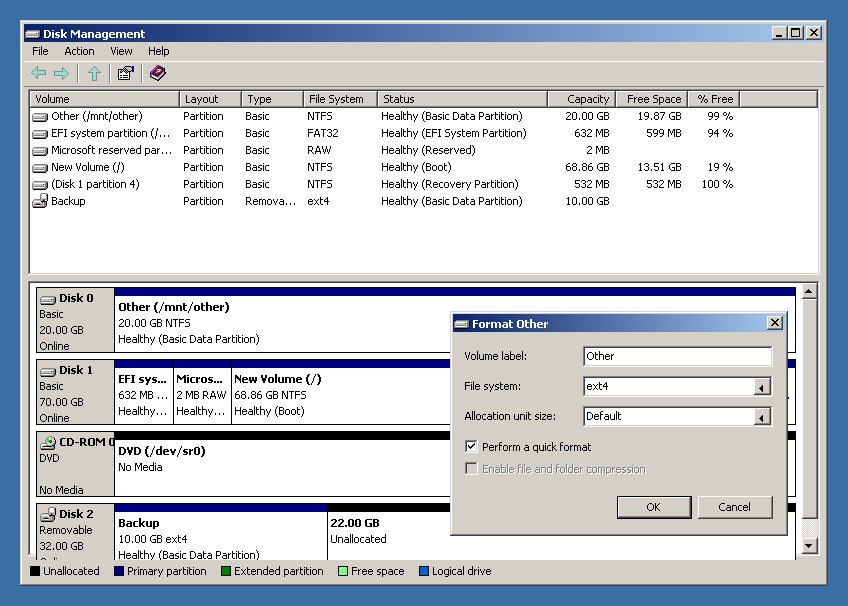
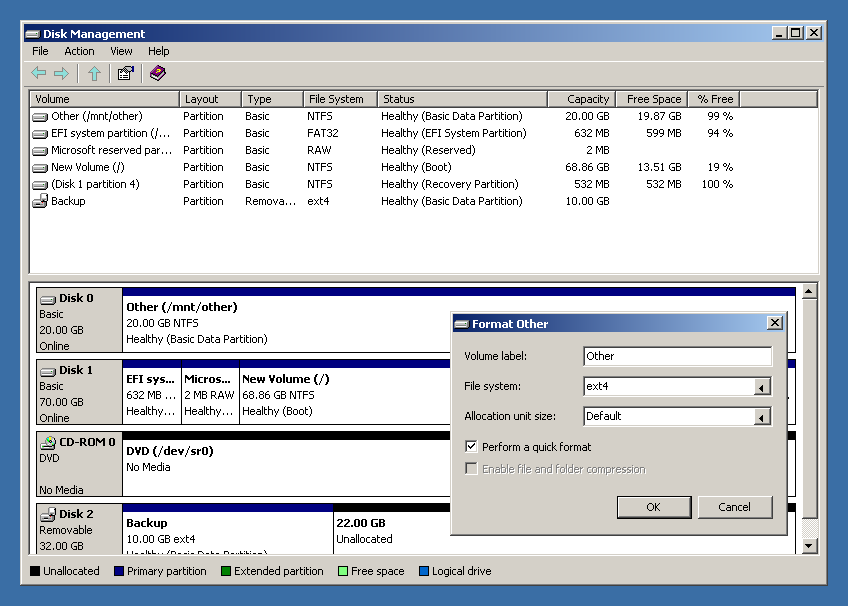
Disk Management: label text fits its box, and the disk view clips to its pane
CD-ROM rows overran the label box in bold, and rows scrolled half out
of view drew past the edge; every label line is now cut to fit and the
view is painted through a pixmap the size of the pane.

Changed region(s): [[0.1226, 0.4752, 0.9505, 0.9505]]

diff --git a/apps/l2kdiskmgmt.c b/apps/l2kdiskmgmt.c
@@ -556,7 +556,7 @@ enum { ID_EXIT = 100, ID_REFRESH, ID_RESCAN, ID_HELP, ID_ABOUT, ID_SETTINGS,
 enum { PANE_VOLUMES, PANE_DISKS, PANE_GRAPH, PANE_NONE };
 
 #define DISK_ROW_H   72
-#define DISK_LABEL_W 78
+#define DISK_LABEL_W 86
 #define LEGEND_H     22
 #define STRIPE_H      8
 
@@ -708,35 +708,52 @@ static void hatch(Drawable d, int x, int y, int w, int h)
     }
 }
 
-static void draw_graph(Drawable d)
+/* A line of the label box or a region, cut to fit. */
+static void fit_text(Drawable d, int font, int x, int y, int maxw, const char *text)
+{
+    char t[160];
+    if (maxw <= 4) return;
+    w2k_ellipsis(font, text, maxw, t, sizeof t);
+    w2k_text(d, font, x, y, t, C_TEXT);
+}
+
+/* The rows are drawn on a pixmap the size of the pane's inside and
+ * copied over, so a row scrolled half out of view stops at the edge. */
+static void draw_graph(Drawable dst)
 {
     W2kRect g = app.bottom;
-    w2k_fill(d, g.x, g.y, g.w, g.h, C_WINDOW);
-    w2k_edge(d, g.x, g.y, g.w, g.h, EDGE_SUNKEN, BF_RECT);
+    w2k_fill(dst, g.x, g.y, g.w, g.h, C_WINDOW);
+    w2k_edge(dst, g.x, g.y, g.w, g.h, EDGE_SUNKEN, BF_RECT);
     int inner_x = g.x + 2, inner_y = g.y + 2, inner_w = g.w - 4, inner_h = g.h - 4;
     int need = w2k_scroll_needed(&app.gsb);
     if (need) inner_w -= SCROLL_W;
+    if (inner_w <= 0 || inner_h <= 0) return;
+    int pw = w2k_cw(inner_x, inner_w), ph = w2k_cw(inner_y, inner_h);
+    Pixmap d = XCreatePixmap(w2k.dpy, w2k.root, (unsigned)pw, (unsigned)ph, w2k.depth);
+    w2k_fill(d, 0, 0, inner_w, inner_h, C_WINDOW);
     int fh = w2k_font_height(F_UI);
-    int y = inner_y + 4 - app.gsb.pos;
-    int gx = inner_x + 6 + DISK_LABEL_W, gw = inner_w - 12 - DISK_LABEL_W;
+    int y = 4 - app.gsb.pos;
+    int lx = 6;
+    int gx = lx + DISK_LABEL_W, gw = inner_w - 12 - DISK_LABEL_W;
     if (gw < 40) gw = 40;
     layout_regions(gw - 2);
     for (int i = 0; i < ndisks; i++, y += DISK_ROW_H) {
         Disk *dk = &disks[i];
         int rh = DISK_ROW_H - 6;
-        if (y + rh < inner_y || y > inner_y + inner_h) continue;
+        if (y + rh < 0 || y > inner_h) continue;
         /* The disk's label box, grey in a black line. */
-        int lx = inner_x + 6;
         w2k_fill(d, lx, y, DISK_LABEL_W, rh, C_FACE);
         w2k_frame(d, lx, y, DISK_LABEL_W + gw, rh, C_BLACK);
         if (app.sel_disk == i && app.graph_focus) hatch(d, lx + 1, y + 1, DISK_LABEL_W - 1, rh - 2);
         char b[64];
+        int tw = DISK_LABEL_W - 8;
         w2k_icon_draw(d, lx + 4, y + 4, dk->rom ? ICO_DRIVE_CD : dk->rm ? ICO_DRIVE_FLOPPY : ICO_DRIVE_HDD);
         snprintf(b, sizeof b, dk->rom ? "CD-ROM %d" : "Disk %d", dk->index);
-        w2k_text(d, F_UI_BOLD, lx + 24, y + 4, b, C_TEXT);
-        w2k_text(d, F_UI, lx + 4, y + 4 + fh + 2, dk->rom ? "DVD" : dk->rm ? "Removable" : "Basic", C_TEXT);
-        if (dk->size) w2k_text(d, F_UI, lx + 4, y + 4 + 2 * (fh + 2), fmt_size(dk->size, b, sizeof b), C_TEXT);
-        w2k_text(d, F_UI, lx + 4, y + 4 + 3 * (fh + 2), dk->rom && !dk->size ? "No Media" : dk->ro ? "Read-only" : "Online", C_TEXT);
+        fit_text(d, F_UI_BOLD, lx + 24, y + 4, DISK_LABEL_W - 28, b);
+        fit_text(d, F_UI, lx + 4, y + 4 + fh + 2, tw, dk->rom ? "DVD" : dk->rm ? "Removable" : "Basic");
+        if (dk->size) fit_text(d, F_UI, lx + 4, y + 4 + 2 * (fh + 2), tw, fmt_size(dk->size, b, sizeof b));
+        fit_text(d, F_UI, lx + 4, y + 4 + 3 * (fh + 2), tw,
+                 dk->rom && !dk->size ? "No Media" : dk->ro ? "Read-only" : "Online");
         w2k_vline(d, lx + DISK_LABEL_W, y, rh, C_BLACK);
         /* The regions. */
         for (int r = 0; r < nregions; r++) {
@@ -745,10 +762,7 @@ static void draw_graph(Drawable d)
             int rx = gx + 1 + rg->x, rw = rg->w, ry = y + 1, rhh = rh - 2;
             int kind = region_kind(rg);
             w2k_fill(d, rx, ry, rw, rhh, C_WINDOW);
-            /* The extended container is a green line around its drives. */
-            if (kind == LG_EXTENDED) {
-                w2k_fill_rgb(d, rx, ry, rw, rhh, 240, 255, 240);
-            }
+            if (kind == LG_EXTENDED) w2k_fill_rgb(d, rx, ry, rw, rhh, 240, 255, 240);
             const unsigned char *c = legend_rgb[kind];
             w2k_fill_rgb(d, rx, ry, rw, STRIPE_H, c[0], c[1], c[2]);
             if (rg->inext) {
@@ -777,25 +791,21 @@ static void draw_graph(Drawable d)
                 Part *p = &dk->part[rg->part];
                 char nm[80];
                 part_volname(dk, i, p, nm, sizeof nm);
-                if (p->extended) { snprintf(nm, sizeof nm, "Extended partition"); }
+                if (p->extended) snprintf(nm, sizeof nm, "Extended partition");
                 snprintf(l1, sizeof l1, "%s%s%s%s", nm, p->mount[0] ? " (" : "",
                          p->mount[0] ? p->mount : "", p->mount[0] ? ")" : "");
                 snprintf(l2, sizeof l2, "%s %s", fmt_size(p->size, b, sizeof b),
                          p->extended ? "" : fs_name(p->fstype));
                 part_status(p, l3, sizeof l3);
             }
-            char t[128];
-            w2k_ellipsis(F_UI_BOLD, l1, rw - 8, t, sizeof t);
-            w2k_text(d, F_UI_BOLD, rx + 4, ty, t, C_TEXT);
-            w2k_ellipsis(F_UI, l2, rw - 8, t, sizeof t);
-            w2k_text(d, F_UI, rx + 4, ty + fh + 2, t, C_TEXT);
-            if (l3[0]) {
-                w2k_ellipsis(F_UI, l3, rw - 8, t, sizeof t);
-                w2k_text(d, F_UI, rx + 4, ty + 2 * (fh + 2), t, C_TEXT);
-            }
+            fit_text(d, F_UI_BOLD, rx + 4, ty, rw - 8, l1);
+            fit_text(d, F_UI, rx + 4, ty + fh + 2, rw - 8, l2);
+            if (l3[0]) fit_text(d, F_UI, rx + 4, ty + 2 * (fh + 2), rw - 8, l3);
         }
     }
-    if (need) w2k_scroll_draw(d, &app.gsb);
+    XCopyArea(w2k.dpy, d, dst, w2k.gc, 0, 0, (unsigned)pw, (unsigned)ph, w2k_cx(inner_x), w2k_cx(inner_y));
+    XFreePixmap(w2k.dpy, d);
+    if (need) w2k_scroll_draw(dst, &app.gsb);
 }
 
 static void draw_legend(Drawable d)
@@ -907,6 +917,7 @@ static int region_at(int x, int y, int *disk_label)
     int inner_x = g.x + 2, inner_y = g.y + 2;
     int yy = inner_y + 4 - app.gsb.pos;
     int gx = inner_x + 6 + DISK_LABEL_W;
+    if (y < inner_y || y >= g.y + g.h - 2) return -1;
     for (int i = 0; i < ndisks; i++, yy += DISK_ROW_H) {
         int rh = DISK_ROW_H - 6;
         if (y < yy || y >= yy + rh) continue;
